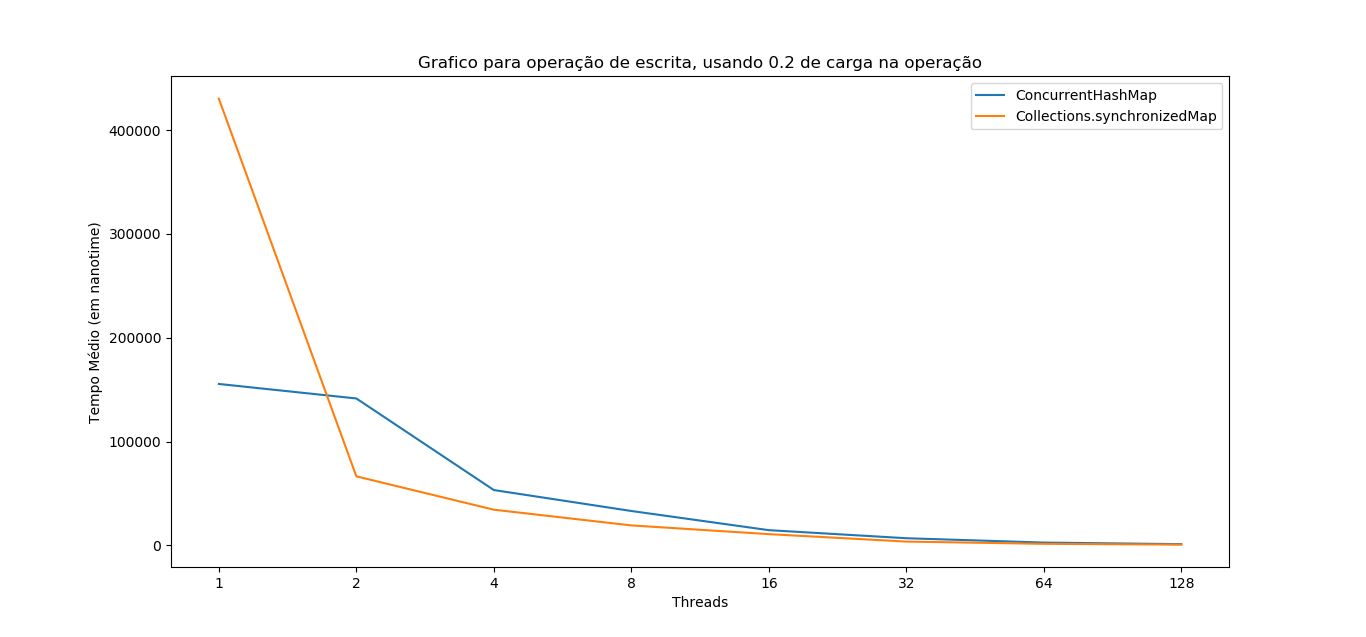
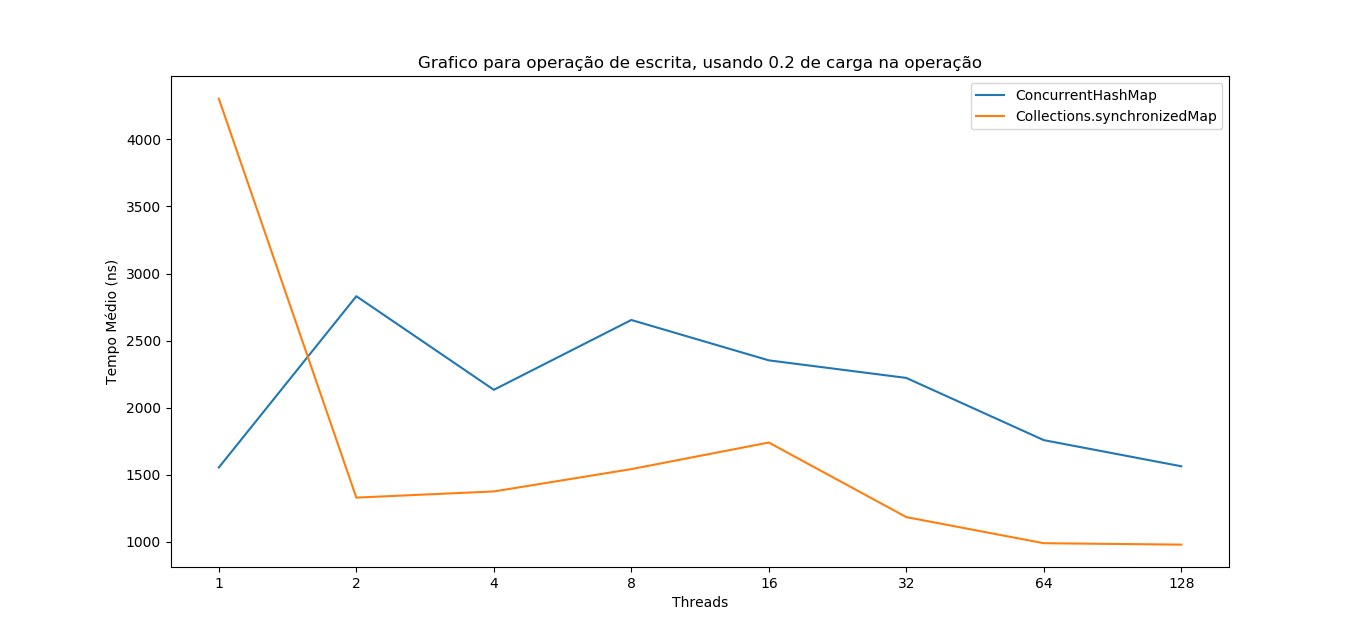
Correcao scripts. Correção graficos

diff --git a/lista1/Questão5/src/plot_letra_a_write_0.8.py b/lista1/Questão5/src/plot_letra_a_write_0.8.py
@@ -10,7 +10,7 @@ sum1 = 0
 sum2 = 0
 count = 0
 count2 = 0
-thread = 1
+
 dataset1 = open('data_concurrent_hash_write_0.8.csv', 'r')
 dataset2 = open('data_syncchronized_map_write_0.8.csv', 'r')
 
@@ -21,16 +21,15 @@ for line in dataset1:
     count+=1
     if (count == 80) :
         x.append(B)
-        y.append(sum1/thread)
+        y.append(sum1/100)
         count = 0
         sum1=0
-        thread = thread * 2
 dataset1.close()
 
 x1 = []
 y1 = []
 
-thread = 1
+
 for line in dataset2:
     line = line.strip()
     A,B,C,D,E,F = line.split(',')
@@ -38,14 +37,14 @@ for line in dataset2:
     count2+=1
     if (count2 == 80) :
         x1.append(B)
-        y1.append(sum2/thread)
+        y1.append(sum2/100)
         count2 = 0
         sum2=0
-        thread = thread * 2
+
 
 dataset2.close()
 plt.xlabel('Threads')
-plt.ylabel('Tempo Médio (em nanotime)')
+plt.ylabel('Tempo Médio (ns)')
 line_up, = plt.plot(x,y, label='ConcurrentHashMap')
 line_down, = plt.plot(x1,y1, label='Collections.synchronizedMap')
 plt.legend([line_up, line_down], ['ConcurrentHashMap', 'Collections.synchronizedMap'])

diff --git a/lista1/Questão5/src/plot_letra_a_read_0.5.py b/lista1/Questão5/src/plot_letra_a_read_0.5.py
@@ -10,7 +10,6 @@ sum1 = 0
 sum2 = 0
 count = 0
 count2 = 0
-thread = 1
 dataset1 = open('data_concurrent_hash_read_0.5.csv', 'r')
 dataset2 = open('data_syncchronized_map_read_0.5.csv', 'r')
 
@@ -21,16 +20,15 @@ for line in dataset1:
     count+=1
     if (count == 50) :
         x.append(B)
-        y.append(sum1/thread)
+        y.append(sum1/100)
         count = 0
         sum1=0
-        thread = thread * 2
 dataset1.close()
 
 x1 = []
 y1 = []
 
-thread = 1
+
 for line in dataset2:
     line = line.strip()
     A,B,C,D,E,F = line.split(',')
@@ -38,14 +36,14 @@ for line in dataset2:
     count2+=1
     if (count2 == 50) :
         x1.append(B)
-        y1.append(sum2/thread)
+        y1.append(sum2/100)
         count2 = 0
         sum2=0
-        thread = thread * 2
+
 
 dataset2.close()
 plt.xlabel('Threads')
-plt.ylabel('Tempo Médio (em nanotime)')
+plt.ylabel('Tempo Médio (ns)')
 line_up, = plt.plot(x,y, label='ConcurrentHashMap')
 line_down, = plt.plot(x1,y1, label='Collections.synchronizedMap')
 plt.legend([line_up, line_down], ['ConcurrentHashMap', 'Collections.synchronizedMap'])

diff --git a/lista1/Questão5/src/plot_letra_a_write_0.5.py b/lista1/Questão5/src/plot_letra_a_write_0.5.py
@@ -10,7 +10,6 @@ sum1 = 0
 sum2 = 0
 count = 0
 count2 = 0
-thread = 1
 dataset1 = open('data_concurrent_hash_write_0.5.csv', 'r')
 dataset2 = open('data_syncchronized_map_write_0.5.csv', 'r')
 
@@ -21,10 +20,9 @@ for line in dataset1:
     count+=1
     if (count == 50) :
         x.append(B)
-        y.append(sum1/thread)
+        y.append(sum1/100)
         count = 0
         sum1=0
-        thread = thread * 2
 dataset1.close()
 
 x1 = []
@@ -38,14 +36,13 @@ for line in dataset2:
     count2+=1
     if (count2 == 50) :
         x1.append(B)
-        y1.append(sum2/thread)
+        y1.append(sum2/100)
         count2 = 0
         sum2=0
-        thread = thread * 2
 
 dataset2.close()
 plt.xlabel('Threads')
-plt.ylabel('Tempo Médio (em nanotime)')
+plt.ylabel('Tempo Médio (ns)')
 line_up, = plt.plot(x,y, label='ConcurrentHashMap')
 line_down, = plt.plot(x1,y1, label='Collections.synchronizedMap')
 plt.legend([line_up, line_down], ['ConcurrentHashMap', 'Collections.synchronizedMap'])

diff --git a/lista1/Questão5/src/plot_letra_a_read_0.2.py b/lista1/Questão5/src/plot_letra_a_read_0.2.py
@@ -10,7 +10,6 @@ sum1 = 0
 sum2 = 0
 count = 0
 count2 = 0
-thread = 1
 dataset1 = open('data_concurrent_hash_read_0.2.csv', 'r')
 dataset2 = open('data_syncchronized_map_read_0.2.csv', 'r')
 
@@ -21,10 +20,9 @@ for line in dataset1:
     count+=1
     if (count == 80) :
         x.append(B)
-        y.append(sum1/thread)
+        y.append(sum1/100)
         count = 0
         sum1=0
-        thread = thread * 2
 dataset1.close()
 
 x1 = []
@@ -38,14 +36,14 @@ for line in dataset2:
     count2+=1
     if (count2 == 80) :
         x1.append(B)
-        y1.append(sum2/thread)
+        y1.append(sum2/100)
         count2 = 0
         sum2=0
         thread = thread * 2
 
 dataset2.close()
 plt.xlabel('Threads')
-plt.ylabel('Tempo Médio (em nanotime)')
+plt.ylabel('Tempo Médio (ns)')
 line_up, = plt.plot(x,y, label='ConcurrentHashMap')
 line_down, = plt.plot(x1,y1, label='Collections.synchronizedMap')
 plt.legend([line_up, line_down], ['ConcurrentHashMap', 'Collections.synchronizedMap'])

diff --git a/lista1/Questão5/src/plot_letra_a_write_0.2.py b/lista1/Questão5/src/plot_letra_a_write_0.2.py
@@ -21,7 +21,7 @@ for line in dataset1:
     count+=1
     if (count == 20) :
         x.append(B)
-        y.append(sum1/thread)
+        y.append(sum1/100)
         count = 0
         sum1=0
         thread = thread * 2
@@ -38,14 +38,14 @@ for line in dataset2:
     count2+=1
     if (count2 == 20) :
         x1.append(B)
-        y1.append(sum2/thread)
+        y1.append(sum2/100)
         count2 = 0
         sum2=0
-        thread = thread * 2
+
 
 dataset2.close()
 plt.xlabel('Threads')
-plt.ylabel('Tempo Médio (em nanotime)')
+plt.ylabel('Tempo Médio (ns)')
 line_up, = plt.plot(x,y, label='ConcurrentHashMap')
 line_down, = plt.plot(x1,y1, label='Collections.synchronizedMap')
 plt.legend([line_up, line_down], ['ConcurrentHashMap', 'Collections.synchronizedMap'])

diff --git a/lista1/Questão5/src/plot_letra_a_read_0.8.py b/lista1/Questão5/src/plot_letra_a_read_0.8.py
@@ -21,7 +21,7 @@ for line in dataset1:
     count+=1
     if (count == 20) :
         x.append(B)
-        y.append(sum1/thread)
+        y.append(sum1/100)
         count = 0
         sum1=0
         thread = thread * 2
@@ -38,14 +38,14 @@ for line in dataset2:
     count2+=1
     if (count2 == 20) :
         x1.append(B)
-        y1.append(sum2/thread)
+        y1.append(sum2/100)
         count2 = 0
         sum2=0
         thread = thread * 2
 
 dataset2.close()
 plt.xlabel('Threads')
-plt.ylabel('Tempo Médio (em nanotime)')
+plt.ylabel('Tempo Médio (ns)')
 line_up, = plt.plot(x,y, label='ConcurrentHashMap')
 line_down, = plt.plot(x1,y1, label='Collections.synchronizedMap')
 plt.legend([line_up, line_down], ['ConcurrentHashMap', 'Collections.synchronizedMap'])
